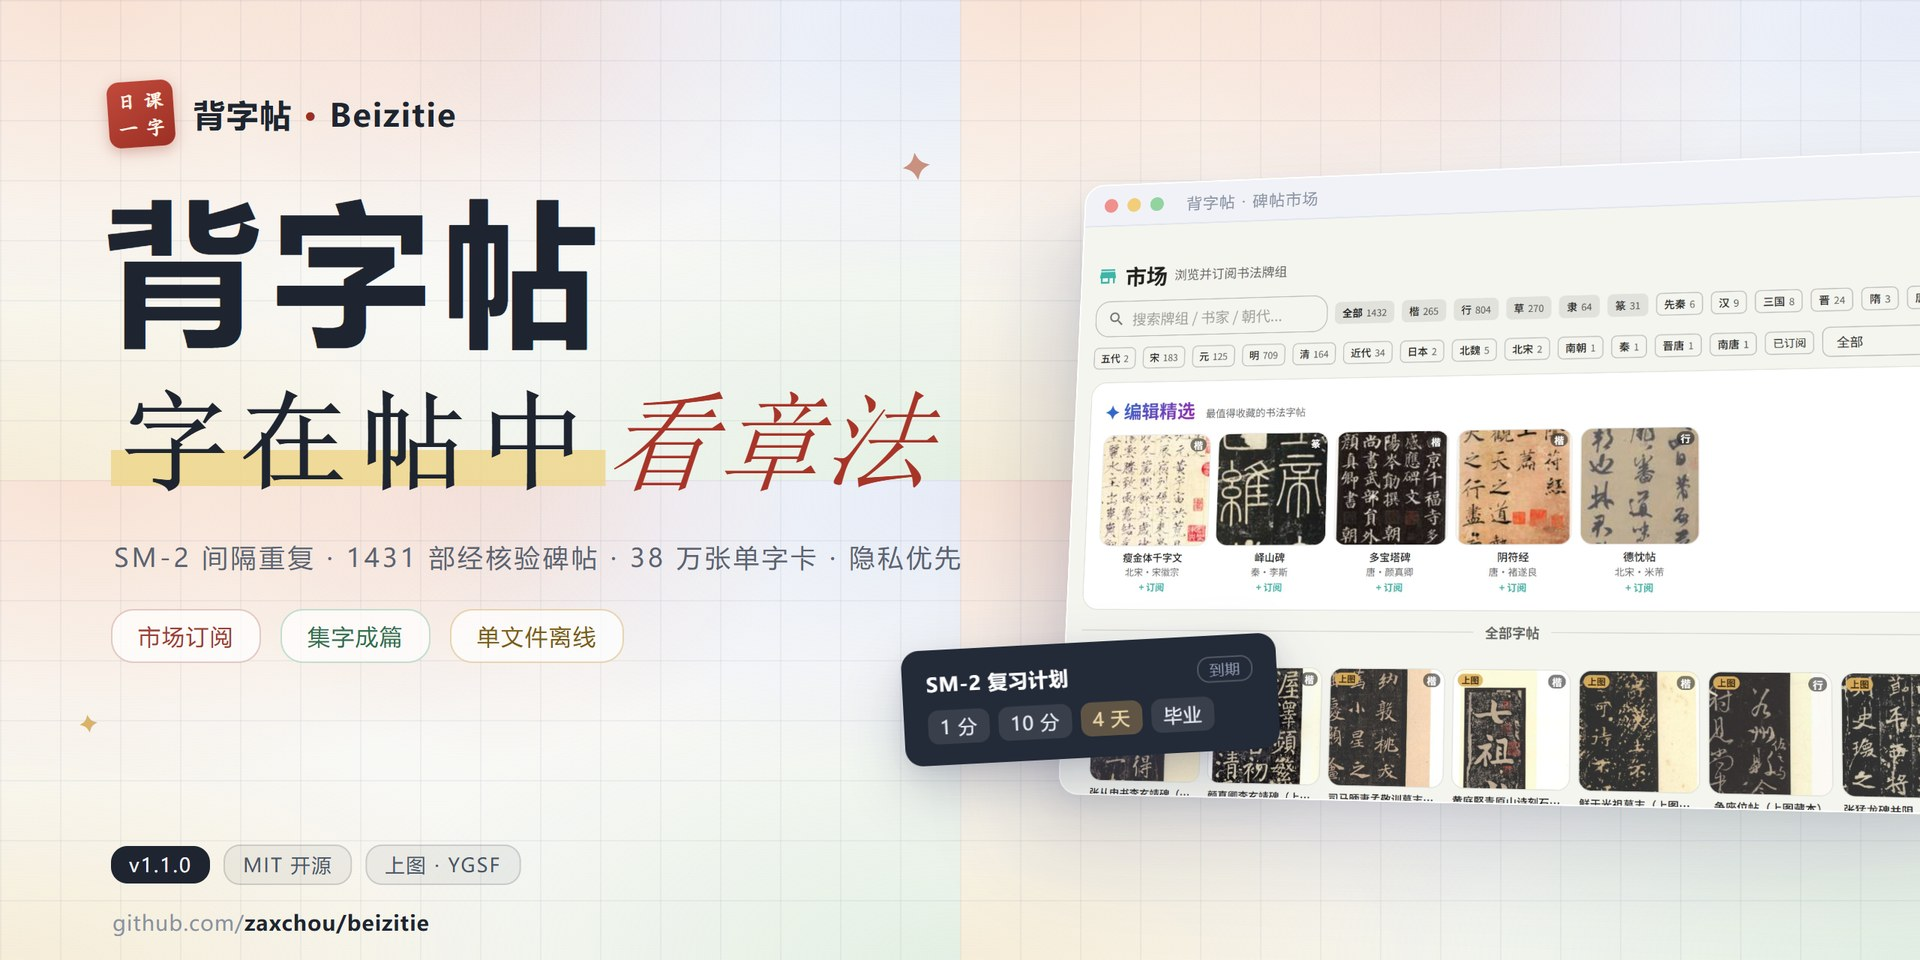
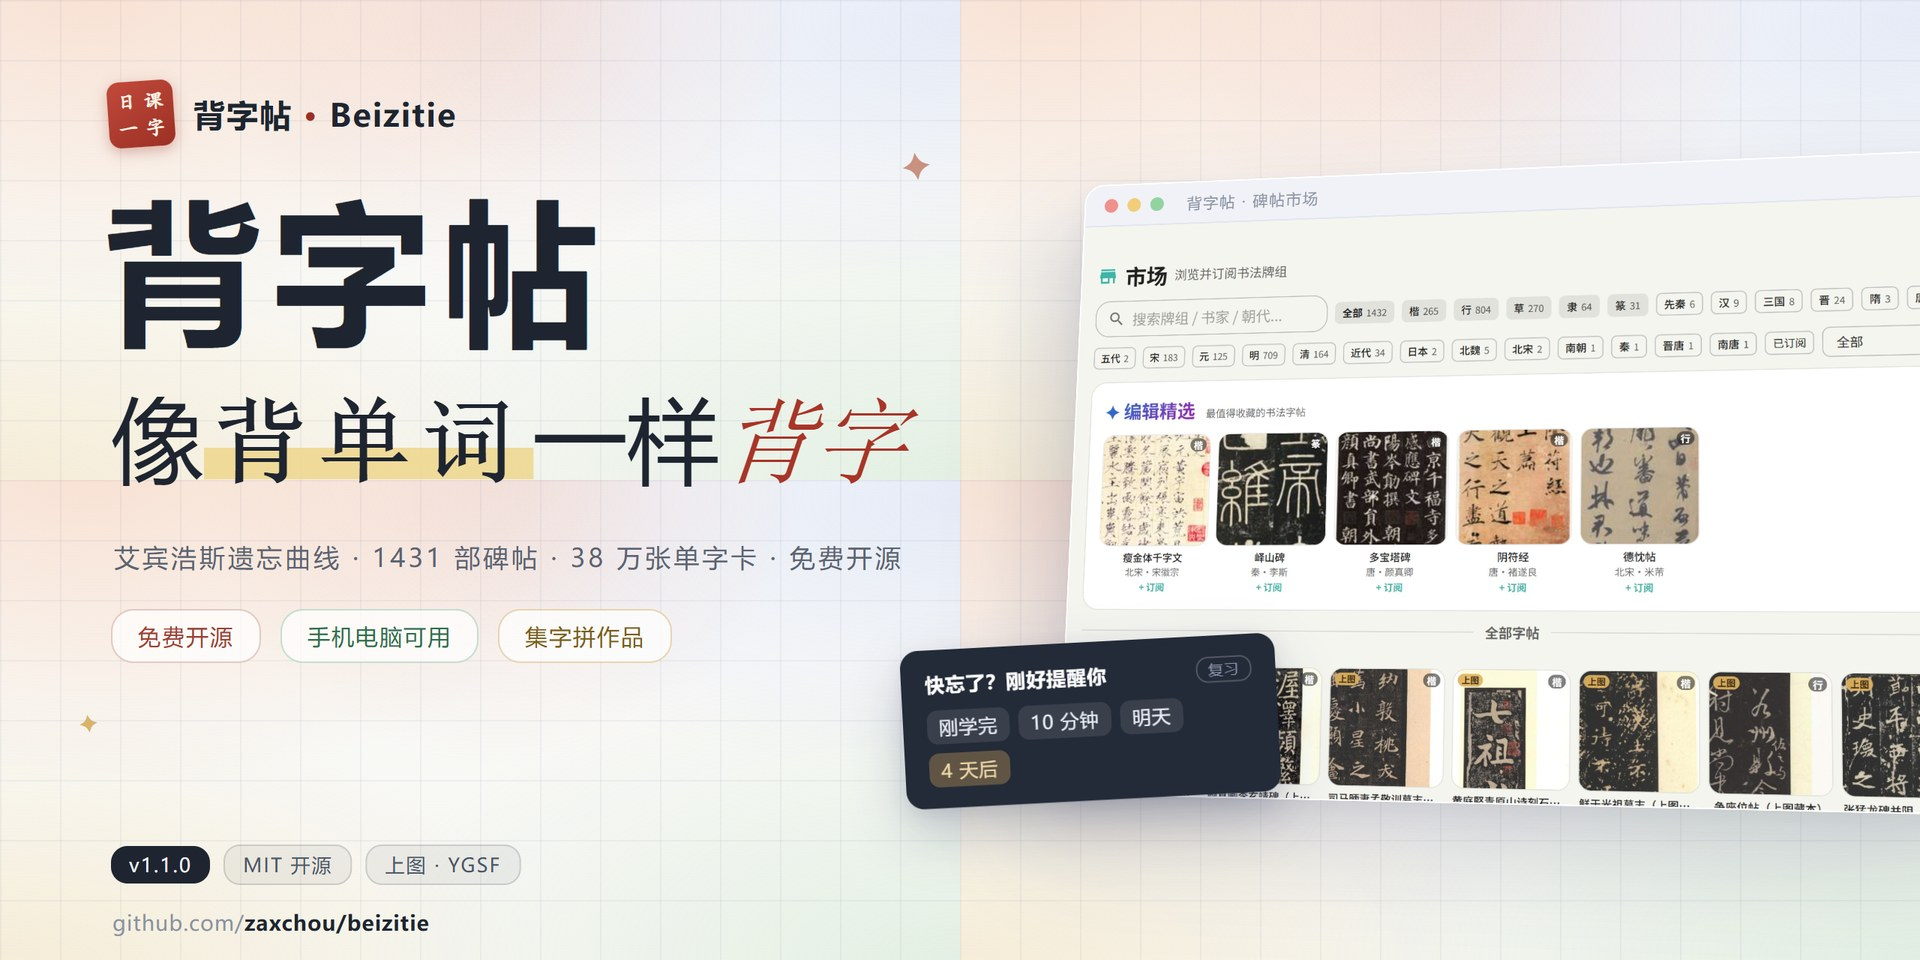
docs: 封面文案去黑话——像背单词一样背字（艾宾浩斯），README 口径同步
- 封面：SM-2→艾宾浩斯遗忘曲线；字在帖中→从标题移除（README 讲）；小卡改「快忘了？刚好提醒你」间隔阶梯
- README 首段与功能表同口径：像背单词一样背字，SM-2 只作括号注（技术读者）
- 卖点签改利益向：免费开源 / 手机电脑可用 / 集字拼作品

diff --git a/docs/_cover.html b/docs/_cover.html
@@ -47,7 +47,7 @@
   /* ❸ 标题区 */
   .t1{position:absolute;left:70px;top:126px;font-size:104px;font-weight:800;color:var(--ink);
       letter-spacing:8px;line-height:1;white-space:nowrap}
-  .t2{position:absolute;left:74px;top:250px;font-size:72px;line-height:1.15;white-space:nowrap}
+  .t2{position:absolute;left:74px;top:256px;font-size:62px;line-height:1.15;white-space:nowrap}
   .t2 .serif{font-family:"Songti SC","SimSun",serif;font-weight:700;letter-spacing:6px;
       background:linear-gradient(transparent 58%, rgba(238,214,140,.85) 58%, rgba(238,214,140,.85) 92%, transparent 92%);
       padding:0 6px}
@@ -107,12 +107,12 @@
   </div>
 
   <div class="t1">背字帖</div>
-  <div class="t2"><span class="serif">字在帖中</span><span class="accent">看章法</span></div>
-  <div class="sub">SM-2 间隔重复 · 1431 部经核验碑帖 · 38 万张单字卡 · 隐私优先</div>
+  <div class="t2">像<span class="serif">背单词</span>一样<span class="accent">背字</span></div>
+  <div class="sub">艾宾浩斯遗忘曲线 · 1431 部碑帖 · 38 万张单字卡 · 免费开源</div>
   <div class="chips">
-    <div class="chip p">市场订阅</div>
-    <div class="chip m">集字成篇</div>
-    <div class="chip g">单文件离线</div>
+    <div class="chip p">免费开源</div>
+    <div class="chip m">手机电脑可用</div>
+    <div class="chip g">集字拼作品</div>
   </div>
   <div class="spark">✦</div>
   <div class="spark s2">✦</div>
@@ -124,9 +124,9 @@
     </div>
   </div>
   <div class="mini">
-    <div class="mt"><b>SM-2 复习计划</b><span>到期</span></div>
+    <div class="mt"><b>快忘了？刚好提醒你</b><span>复习</span></div>
     <div class="row">
-      <span class="z">1 分</span><span class="z">10 分</span><span class="z on">4 天</span><span class="z">毕业</span>
+      <span class="z">刚学完</span><span class="z">10 分钟</span><span class="z">明天</span><span class="z on">4 天后</span>
     </div>
   </div>
 

diff --git a/README.md b/README.md
@@ -17,7 +17,7 @@
 
 ---
 
-**背字帖**把历代碑帖拆成一张张单字高清卡，用 SM-2 间隔重复算法帮你高效背记字形。市场共上架 **1431 部经核验碑帖、38 万余张单字**（行 803 / 楷 265 / 草 270 / 隶 64 / 篆 31），覆盖楷行草隶篆、184 位书家，其中含上海图书馆藏本 45 部（带整卷原拓坐标）。
+**背字帖**把历代碑帖拆成一张张单字高清卡，像背单词一样帮你背字：按艾宾浩斯遗忘曲线安排复习（Anki 同款 SM-2 算法），快忘记时刚好提醒你，直到烂熟于心。市场共上架 **1431 部经核验碑帖、38 万余张单字**（行 803 / 楷 265 / 草 270 / 隶 64 / 篆 31），覆盖楷行草隶篆、184 位书家，其中含上海图书馆藏本 45 部（带整卷原拓坐标）。
 
 所有上架碑帖均经**字图一致性核验**——宁缺勿错，字与图对不上的帖一律不上架；核验通过的帖同时构成集字的取字范围（1476 部 / 41.7 万单字，含未上架的画作长卷）。
 
@@ -26,7 +26,7 @@
 | 功能 | 说明 |
 |---|---|
 | 📖 **碑帖市场** | 1431 部碑帖一键订阅，按书体 / 朝代 / 书家筛选；目录离线内联，断网也能逛 |
-| 🔁 **SM-2 间隔重复** | 经典算法排复习计划：1 分钟 → 3 分钟 → 10 分钟三轮短间隔，毕业进入 4 天起步的长间隔；出卡顺序支持 到期优先 / 按帖序 / 随机 |
+| 🔁 **科学记忆（间隔重复）** | 像背单词一样背字：快忘记时刚好提醒你，复习间隔 10 分钟 → 明天 → 4 天后越拉越长，直到烂熟于心；出卡顺序支持 到期优先 / 按帖序 / 随机 |
 | 🖼 **字在帖中** | 翻卡后可点「原拓」回看该字在整卷拓片中的位置——看行气、看章法，理解单字在原帖中的姿态（上海图书馆藏本帖可用） |
 | 🧩 **集字** | 输入任意诗文，从 1476 部已核验碑帖自动匹配原字，拼成书法作品，导出高清 PNG |
 | 📶 **离线可学** | 单字图自动本地缓存，断网可复习 |
@@ -38,7 +38,7 @@
 | 碑帖市场 | 学习卡（翻转后） | 字在帖中 |
 | :---: | :---: | :---: |
 | [<img src="docs/screenshots/market.png" width="240">](docs/screenshots/market.png) | [<img src="docs/screenshots/study.png" width="240">](docs/screenshots/study.png) | [<img src="docs/screenshots/zhangfa.png" width="240">](docs/screenshots/zhangfa.png) |
-| 按书体 / 朝代筛选，编辑精选 | 真拓单字 + SM-2 评分 | 单字回看整卷位置与行气 |
+| 按书体 / 朝代筛选，编辑精选 | 真拓单字卡 + 复习评分 | 单字回看整卷位置与行气 |
 
 ## 🚀 快速开始
 
